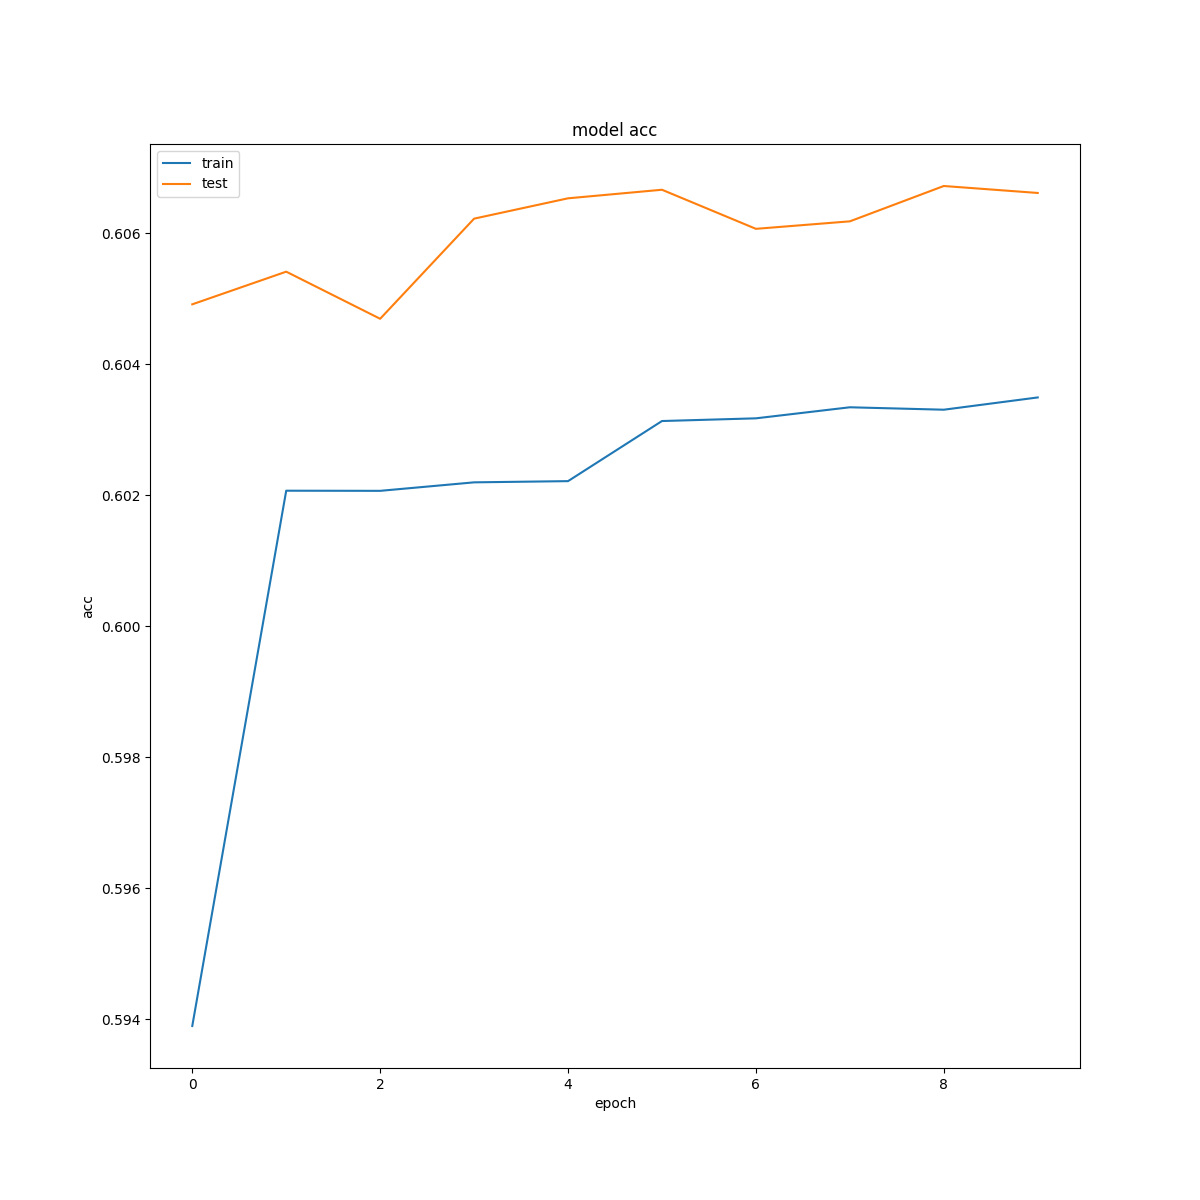
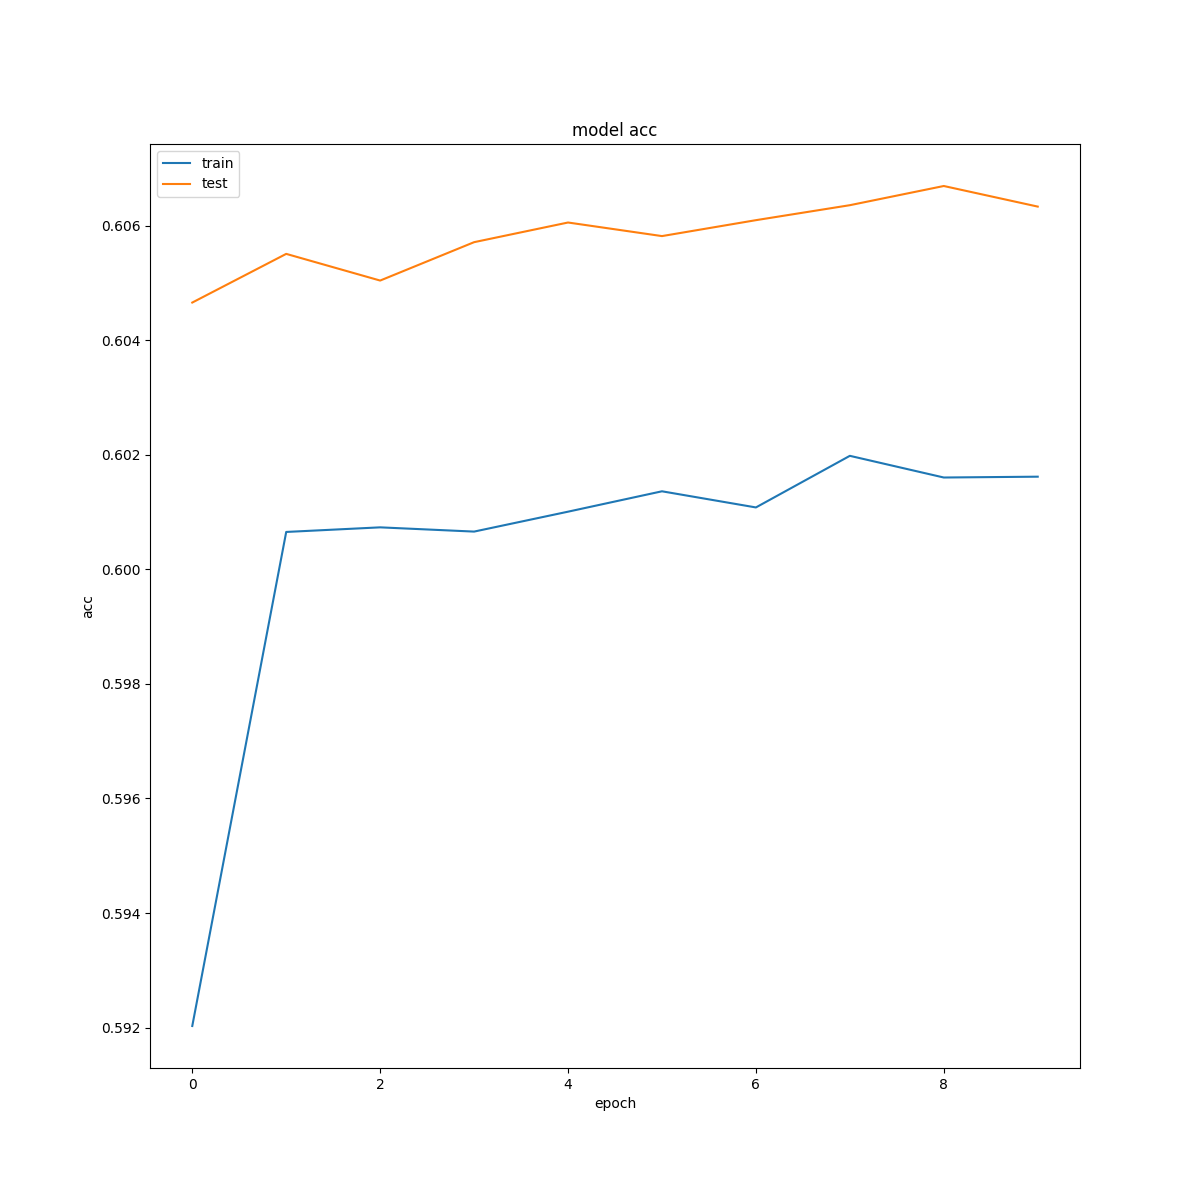
mfa para users steps 5% melhor
Multiplicando embedding de distância e duração

diff --git a/model/next_poi_category_prediction_models/users_steps/mfarnnuserssteps.py b/model/next_poi_category_prediction_models/users_steps/mfarnnuserssteps.py
@@ -64,13 +64,17 @@ class MFARNNUsersSteps(NNBase):
         duration_embbeding = emb_duration(duration_input)
         week_day_embbeding = emb_week_day(week_day_input)
 
+        spatial_flatten = Flatten()(spatial_embedding)
+
         id_flatten = Flatten()(id_embedding)
         id_flatten = Dense(location_input_dim*location_input_dim)(id_flatten)
 
         id_unit = tf.keras.layers.Reshape((location_input_dim, location_input_dim))(id_flatten)
 
+        distance_duration = tf.multiply(distance_embbeding, duration_embbeding)
 
-        l_p = Concatenate()([spatial_embedding, temporal_embedding, distance_embbeding, duration_embbeding])
+
+        l_p = Concatenate()([spatial_embedding, temporal_embedding, distance_embbeding, duration_embbeding, distance_duration])
 
         y_cup = Concatenate()([id_embedding, l_p])
         y_cup = Flatten()(y_cup)
@@ -80,12 +84,12 @@ class MFARNNUsersSteps(NNBase):
         srnn = SimpleRNN(70, return_sequences=True)(l_p)
         srnn = Dropout(0.5)(srnn)
 
-        att = MultiHeadAttention(key_dim=1,
-                                 num_heads=4,
+        att = MultiHeadAttention(key_dim=2,
+                                 num_heads=1,
                                  name='Attention')(srnn, srnn)
         att = Flatten()(att)
 
-        distance_matrix = tf.math.multiply(id_unit, categories_distance_matrix)
+        distance_matrix = categories_distance_matrix
         # distance_matrix = categories_distance_matrix
         # x_distances = self.graph_distances_a(distance_matrix, adjancency_matrix)
         x_distances = GCNConv(22, activation='swish')([distance_matrix, adjancency_matrix])
@@ -94,7 +98,7 @@ class MFARNNUsersSteps(NNBase):
         x_distances = Dropout(0.5)(x_distances)
         x_distances = Flatten()(x_distances)
 
-        durations_matrix = tf.math.multiply(id_unit, categories_durations_matrix)
+        durations_matrix = categories_durations_matrix
         x_durations = GCNConv(22, activation='swish')([durations_matrix, adjancency_matrix])
         # x_durations = Dropout(0.5)(x_durations)
         x_durations = GCNConv(10, activation='swish')([x_durations, adjancency_matrix])
@@ -103,7 +107,7 @@ class MFARNNUsersSteps(NNBase):
 
         srnn = Concatenate()([srnn, id_embedding])
         srnn = Flatten()(srnn)
-        srnn = Dropout(0.5)(srnn)
+        srnn = Dropout(0.3)(srnn)
         y_r = Dense(location_input_dim, activation='softmax')(srnn)
 
         y_sup = Concatenate()([att, x_distances, x_durations])
@@ -111,7 +115,13 @@ class MFARNNUsersSteps(NNBase):
         y_sup = Dense(location_input_dim, activation='softmax')(y_sup)
         y_cup = Dropout(0.5)(y_cup)
         y_cup = Dense(location_input_dim, activation='softmax')(y_cup)
-        y = tf.Variable(initial_value=1.) * y_r + tf.Variable(initial_value=0.)*y_sup + tf.Variable(initial_value=1.) * y_cup
+        #spatial_flatten = Dense(location_input_dim, activation='relu')(spatial_flatten)
+
+        y_r = tf.Variable(initial_value=1.) * y_r
+        y_sup = tf.Variable(initial_value=0.)*y_sup
+        y_cup = tf.Variable(initial_value=1.) * y_cup
+
+        y = y_r + y_sup + y_cup
 
         model = Model(inputs=[location_category_input, temporal_input, country_input, distance_input, duration_input, week_day_input, user_id_input, adjancency_matrix, categories_distance_matrix, categories_temporal_matrix, categories_durations_matrix], outputs=[y], name="MFA-RNN")
 
